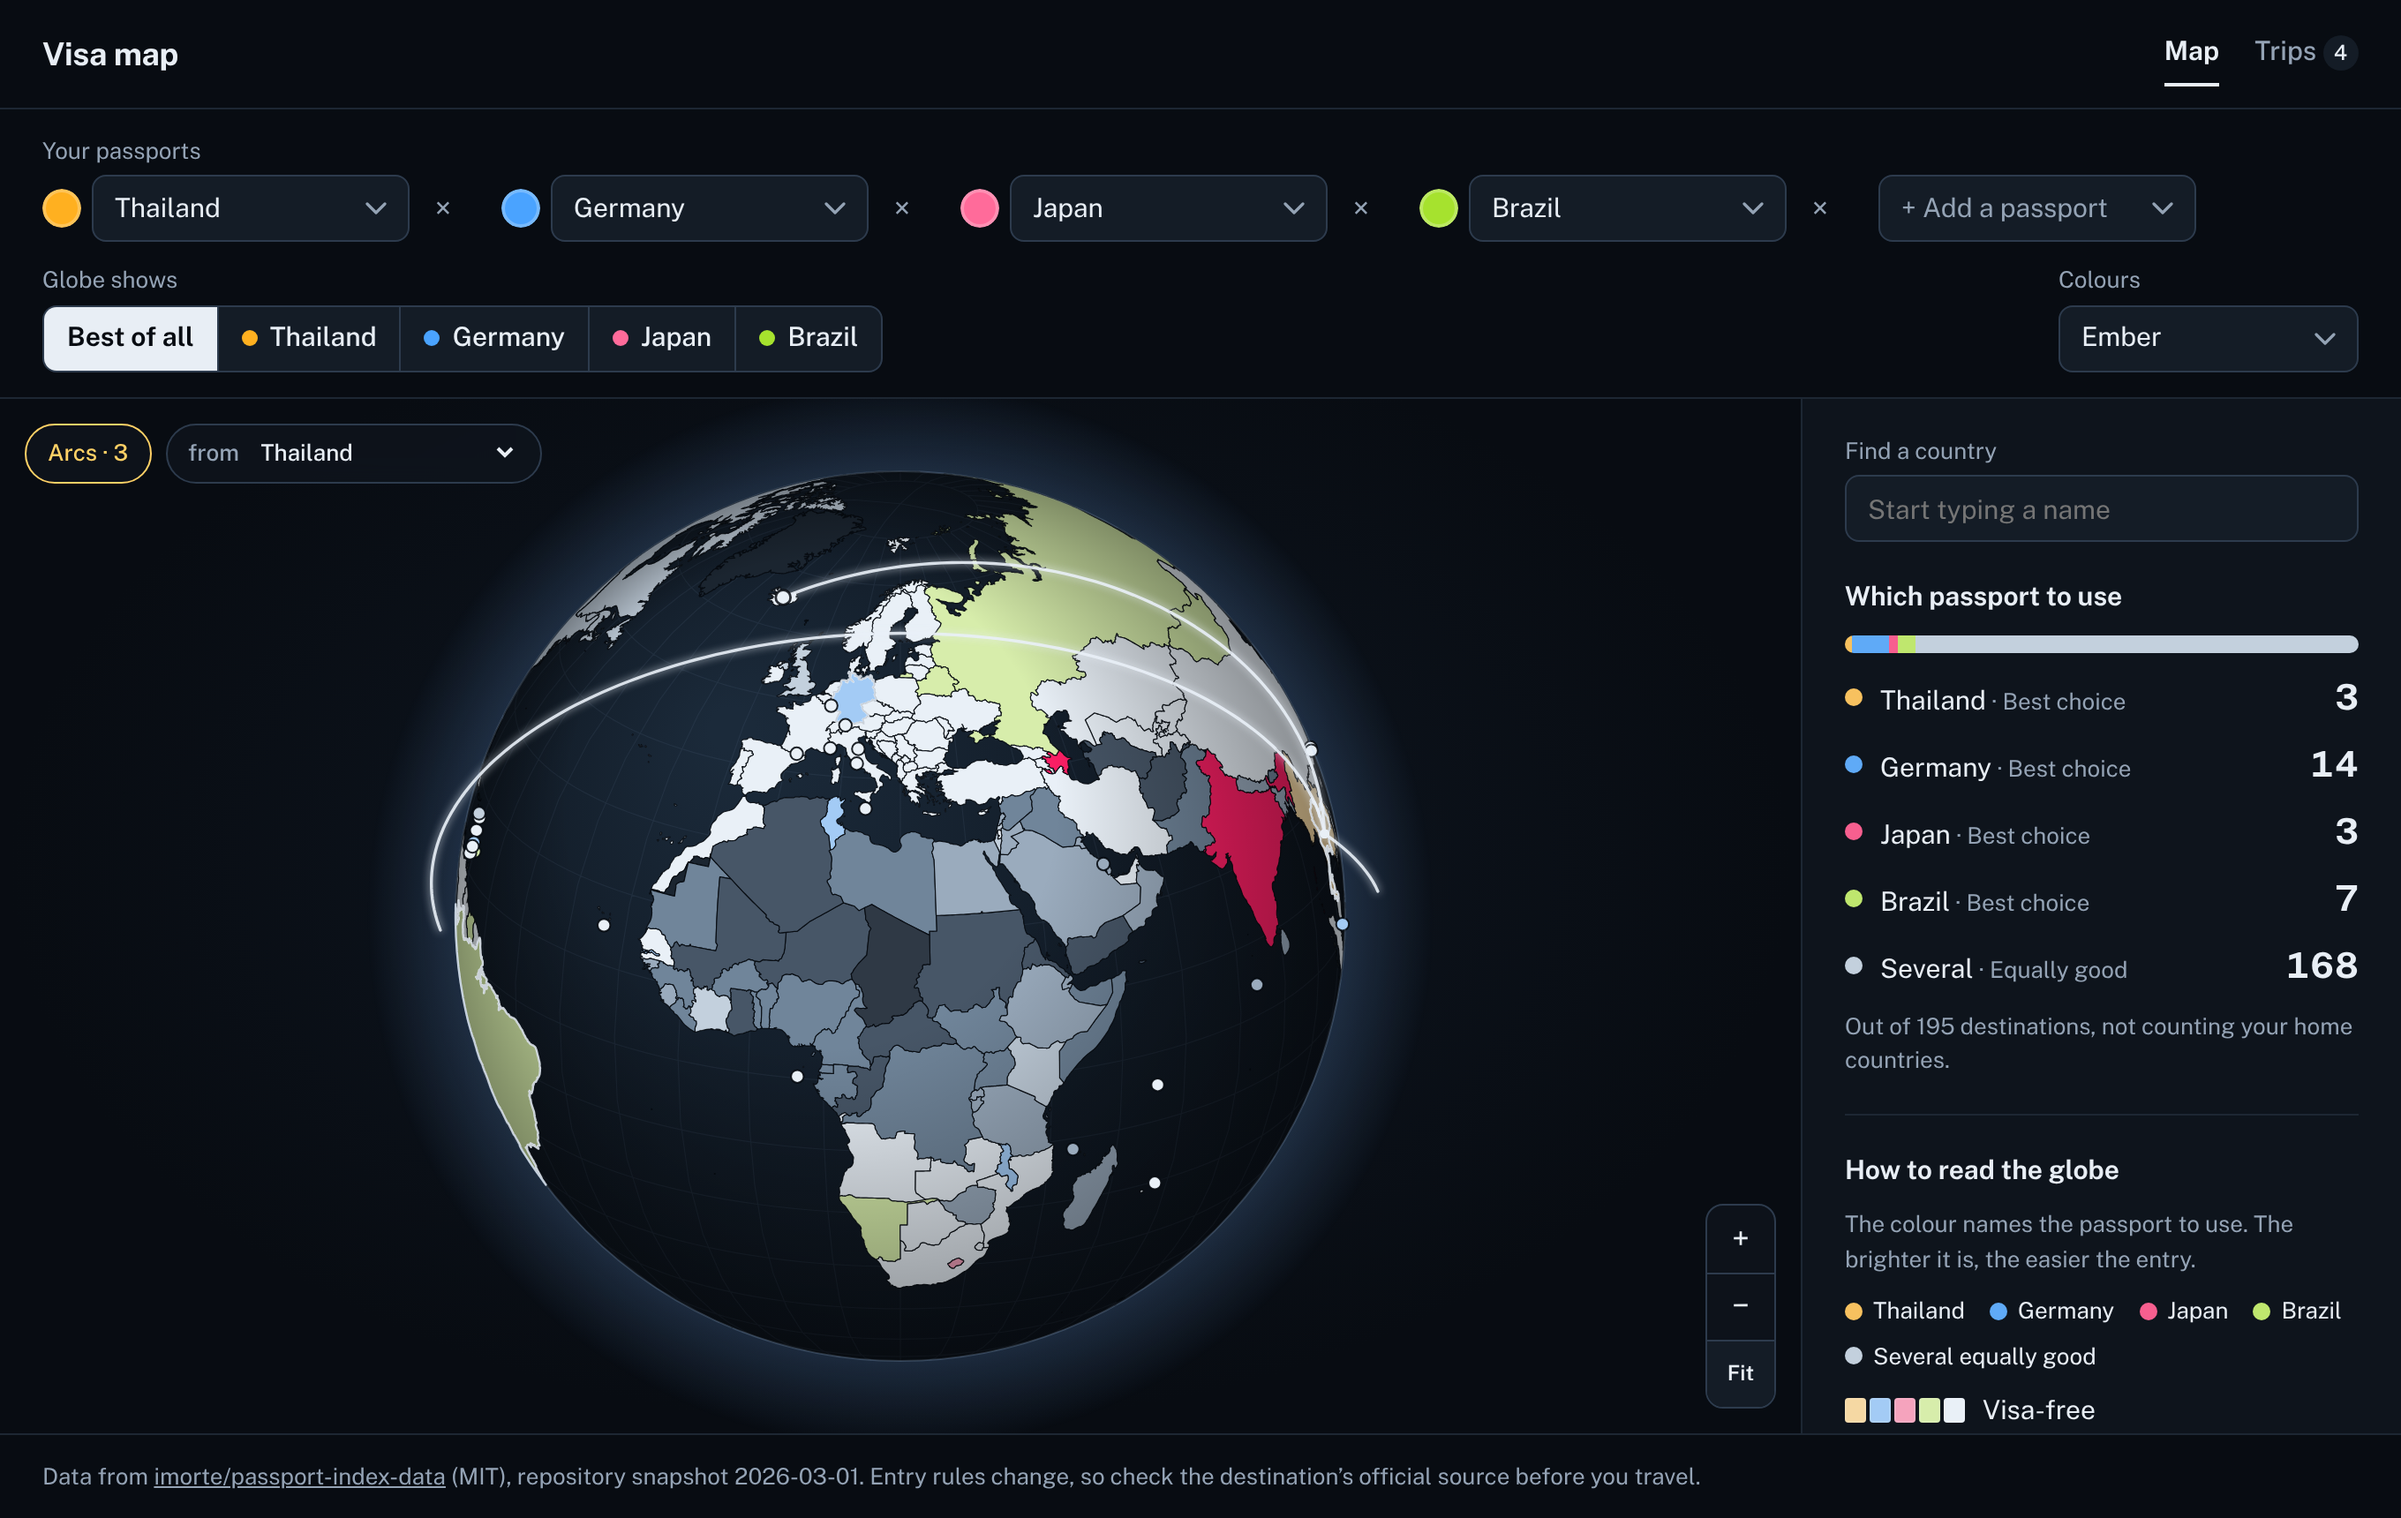
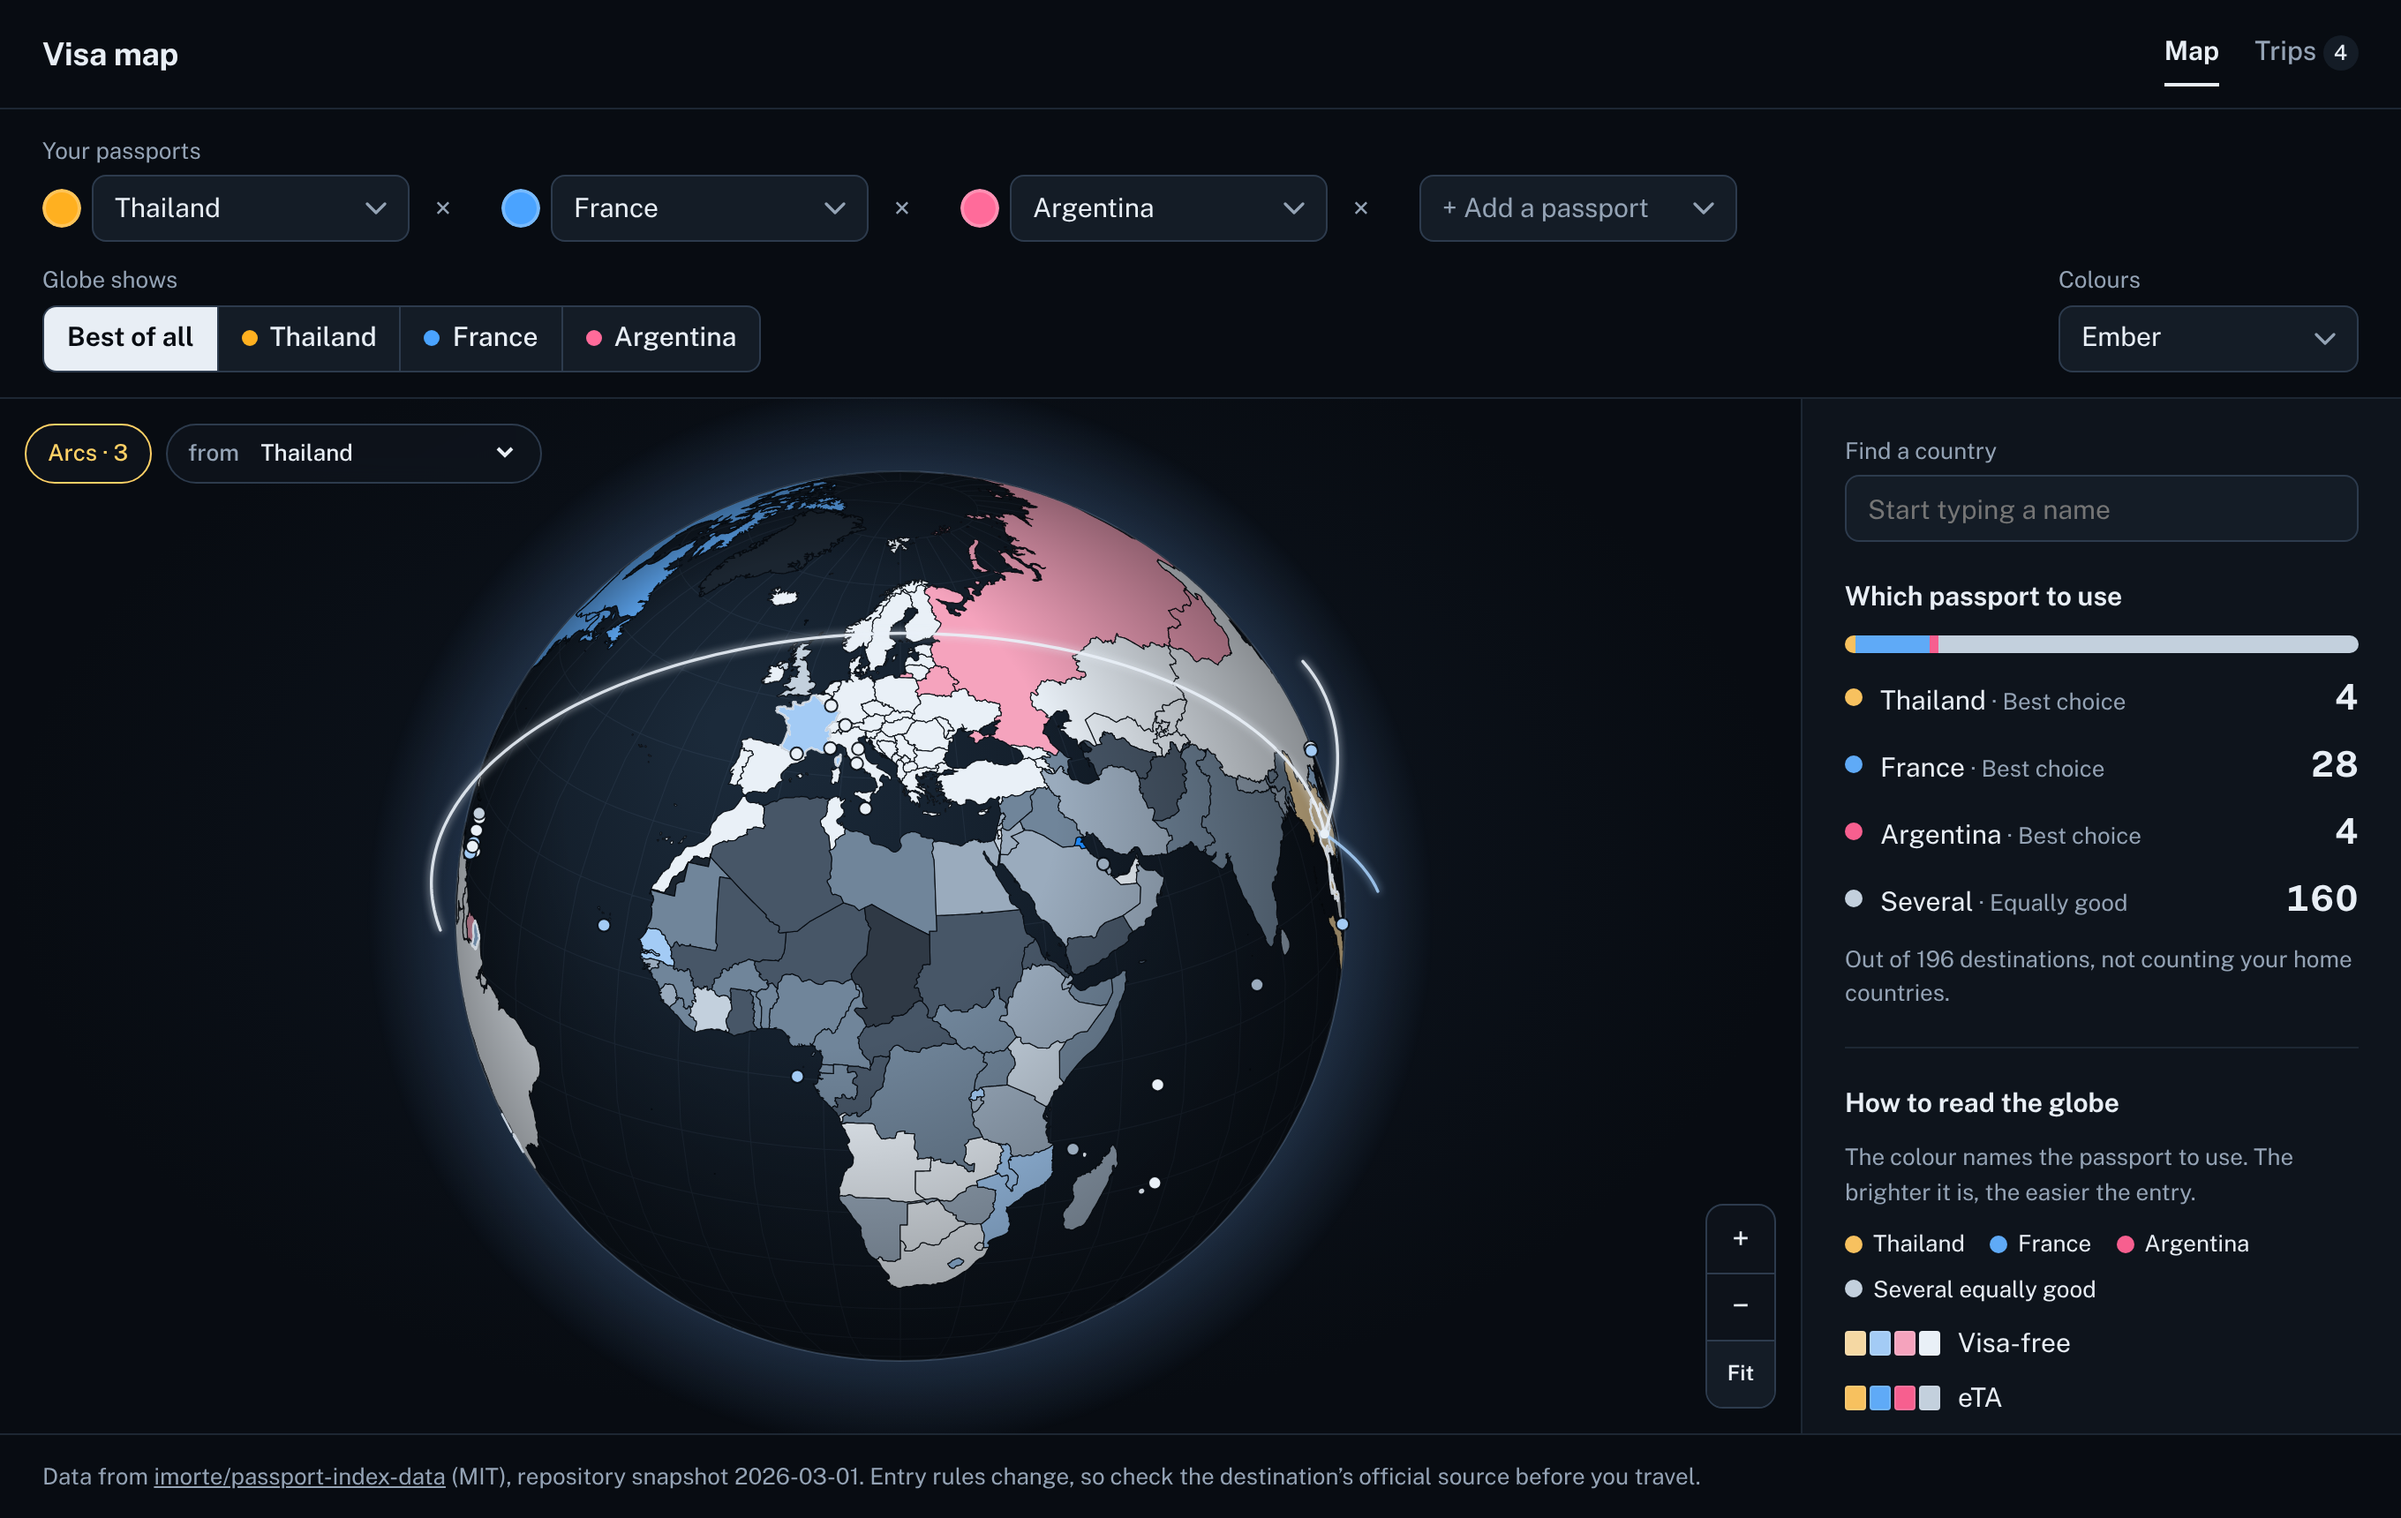
update readme

diff --git a/README.md b/README.md
@@ -1,102 +1,55 @@
 # Visa map
 
-Which passport should I use to travel there?
+**Which passport should I use to travel there?**
 
 Some people hold more than one passport. Each one gets you into different countries with different rules: walk straight in, get a visa at the airport, apply online first, or apply at an embassy weeks ahead. Visa map puts all of that on one spinning globe, so you can see at a glance which of your passports is the best choice for every country in the world.
 
+![Four passports on the globe, with arcs to the countries marked as next](docs/screenshot.png)
+
+## What it does, in plain words
+
+1. **Pick your passports.** Add one to five. Each gets its own colour.
+2. **Look at the globe.** Every country is coloured by your best passport for it. The colour tells you *which* passport, and the brightness tells you *how easy* the entry is: brighter means easier.
+3. **Click a country.** You get a clear answer ("Use Germany"), plus what each passport needs there and how many days you can stay.
+4. **Plan your trips.** Mark countries as *Next*, *Visited* or *Not going*. For each *Next* country the app tells you which passport to use. Turn on *Arcs* to see your upcoming trips drawn as glowing lines across the globe.
+
+## Who it is for, and what it shows off
+
+It is a personal tool and a portfolio project. It is small enough to read in an afternoon, and it practises things that come up in real apps:
+
+- **Working with a public dataset** that is cleaned and checked by a script before the app uses it.
+- **Turning a rule into code** ("which entry is better?") and testing it properly.
+- **Drawing with d3** on a canvas: a real 3D-looking globe with drag, zoom, animation and click detection.
+- **Keeping data in the browser** with `localStorage`, so there is no server, no account and no cost.
+- **Careful UI details:** dark theme, colour-blind safe palette, keyboard controls, shareable links.
+
 ## Features
 
-- **Which passport to use:** up to five passports. Each country is coloured by the best of them: hue names the passport, brightness says how easy the entry is, and neutral grey means several are equally good.
-- **Your colours:** pick a palette (Ember, Sunset, Reef or a colour-blind safe one) and click any passport's dot to choose its own colour. The brightness ramp is derived from whatever you pick.
-- **Single-passport views:** show just one passport, with a legend that counts each status.
-- **Verdict per country:** "Use Germany", "Thailand or Japan", "Either works" or "Same for both", with every passport's entry and allowed stay in days.
-- **Trips:** mark any country as Next, Visited or Not going. The Next list says which passport to use for each and what entry it needs. Not-going countries fade on the main globe.
-- **Arcs (optional):** a toggle draws lifted arcs from your home to your Next countries, coloured by the passport you would use. Choose where they start.
-- **A real globe:** drag to turn it (it glides on release), scroll or pinch to zoom toward the cursor, arrow keys and +/- from the keyboard.
-- **Backup:** export and import trips as JSON. The old visited list is migrated automatically.
-- **Shareable links:** `?p=TH,DE,JP` opens the comparison, `&view=DE` shows one passport, `&tab=trips` opens Trips. Older `?a=TH&b=DE` links still work.
-- **Find a country** by name: the globe flies there. It is also the keyboard and screen-reader route to every country.
-- **Small states** get clickable dots until you zoom in far enough to see their shape.
+- Up to five passports, each country coloured by the best one (hue is the passport, brightness is how easy the entry is, grey means several are equally good)
+- Four colour palettes, including a colour-blind safe one, plus a custom colour per passport
+- Single-passport views with a legend that counts each entry type
+- A plain-language verdict per country: "Use Germany", "Thailand or Japan", "Either works"
+- Entry type and allowed stay in days for every passport you hold
+- Trips tab: mark countries as Next, Visited or Not going, with the passport to use for each Next country
+- Optional arcs from your home to your Next countries, coloured by the passport you would use
+- Drag, scroll and pinch to move around a real globe, with keyboard controls and a Fit button
+- Search for a country and the globe flies to it
+- Clickable dots for tiny countries such as Monaco, Singapore and Tuvalu
+- Export and import your trips as JSON
+- Shareable links such as `?p=TH,DE,JP`
+- Dark mode only, no account, no backend: everything is saved in your browser
 
 ## Run it
 
+You need [Node.js](https://nodejs.org) (the LTS version). Then, in a terminal inside the project folder:
+
 ```bash
 npm install
-npm run dev        # http://localhost:5173
-npm test           # comparison, recommendation, palette, data integrity, URL and storage helpers
-npm run build      # static site in dist/
+npm run dev
 ```
 
-Deploy `dist/` to any static host. On Vercel, use the Vite preset (build command `npm run build`, output `dist`).
+Open the address it prints, usually http://localhost:5173. Stop it with `Ctrl + C`.
 
-## How the comparison works
+To build the finished static site into `dist/`, run `npm run build`. To run the tests, run `npm test`.
 
-Each destination gets a rank for each passport, higher is better:
-
-`home` > `visa-free` > `eTA` > `visa on arrival` > `e-visa` > `visa required` > `no admission`
-
-- **Per destination:** the passports that no other passport beats are the best choice. Higher rank wins. On the same rank, more allowed days wins, but only when both sides list a number. Otherwise they tie.
-- **No overall winner.** The app does not crown one passport. It answers the question you actually have, per destination, and shows how the world splits.
-- **Verdict wording:** "Use X" for one best passport, "X or Y" when several tie for best, "Either works" / "Any works" when nothing separates them and entry is at least an e-visa, and "Same for both" / "Same for all" when everyone needs a visa.
-- Your passports' home countries are left out of the counts (197 destinations for two different passports).
-
-The ranking is a product opinion, not a fact. For example, it puts an eTA above visa on arrival because an eTA is approved before you fly. It lives in one place, `src/lib/compare.ts`, and is covered by tests.
-
-## Data
-
-Visa data comes from [imorte/passport-index-data](https://github.com/imorte/passport-index-data) (MIT). `scripts/build-data.ts` validates and normalizes `passport-index.json` into `src/data/visa.json`, which is committed.
-
-```bash
-git clone https://github.com/imorte/passport-index-data ../passport-index-data
-npm run build:data -- ../passport-index-data/passport-index.json 2026-03-01   # last arg: snapshot date shown in the footer
-```
-
-What the script checks, and fails the build on:
-
-- the same 199 ISO-2 codes on both axes, and every passport has an entry for every other code;
-- no passport has an entry for itself (the app treats that as the "home" state);
-- only the six known status strings.
-
-Things worth knowing about the dataset:
-
-- A missing day count means "duration not listed", not "unlimited". Roughly 1,700 visa-free entries have no day count.
-- Two `visa required` entries carry a day count. It is dropped.
-- Entries are stored compactly (`f90` is visa-free, 90 days), which brings the file to about 400 kB (28 kB gzipped).
-
-## Map
-
-`scripts/build-map.ts` turns [world-atlas](https://github.com/topojson/world-atlas) (Natural Earth, 50m) into the shapes the globe draws, and prints a report of how it matches the visa data.
-
-```bash
-npm run build:map
-```
-
-- world-atlas identifies countries by numeric ISO code, so the script attaches ISO-2 codes. Kosovo has no numeric code and is matched by name.
-- 198 of the 199 data codes have a shape. Tuvalu has none at 50m, so it gets a hand-placed marker.
-- 37 map shapes have no visa data (Greenland, Puerto Rico, Guam, Western Sahara...). They are drawn as "no data".
-- Somaliland and Northern Cyprus are drawn with Somalia and Cyprus, whose visa data covers them. Antarctica is left out.
-- Countries below a small area threshold get a marker. Their focus point is the centroid of their largest polygon, so overseas territories do not drag, for instance, France's focus into the Atlantic.
-
-## Design
-
-- **Dark only.** A deep blue-black page, a sea lit from the upper left, a faint graticule, limb darkening and a thin glow make the sphere read as an object.
-- **Hue is the passport, brightness is the ease.** "No admission" is hatched, "no data" is dark grey, home countries get a light outline.
-- **Trips:** next is gold, visited is pale blue-white, not going is a dim plum.
-- **One typeface,** Public Sans. Thin borders, no card stacks.
-- The globe drifts slowly until the first interaction, and not at all with reduced motion enabled.
-
-## Code notes
-
-- The globe is a single `<VisaMap>` component: a canvas drawn with `d3-geo` (orthographic projection), with `d3-timer`, `d3-interpolate` and `d3-ease` for the animation. The rest of the app passes in a fill per country, a set of dimmed countries and a list of arcs, and receives clicks.
-- Arcs are great circles sampled with `geoInterpolate`. Each point is lifted by scaling its screen offset from the globe's centre, which is exact for an orthographic view.
-- Colour ramps are generated from one base colour with `d3-color` (fixed lightness steps), so any palette or custom colour keeps the brightness-means-ease rule. Tests check every palette.
-- One animation loop runs only while something moves and stops when idle.
-- Hit testing inverts the pointer to longitude/latitude and tests country bounding boxes first, so hover stays cheap.
-- On wide screens the page fills the window and the side panel scrolls on its own, so selecting a country can never shift the globe under the cursor.
-- State is plain React state. Passports, trips and settings live in `localStorage` under versioned keys (`visamap:passports:v1`, `visamap:trips:v1`, `visamap:settings:v1`) and are sanitized on load, so a corrupt entry cannot break the app.
-
-## Limits
-
-- Entry rules change. The footer shows the dataset's snapshot date and tells people to confirm with official sources.
-- The data covers 199 countries and territories. Disputed and dependent territories follow the dataset's choices.
-- Individual country shapes are not keyboard focusable (238 tab stops would be unusable). The "Find a country" box is the keyboard route, and the globe itself turns and zooms from the keyboard.
+I sent `docs/screenshot.png`, the image the README links to.
